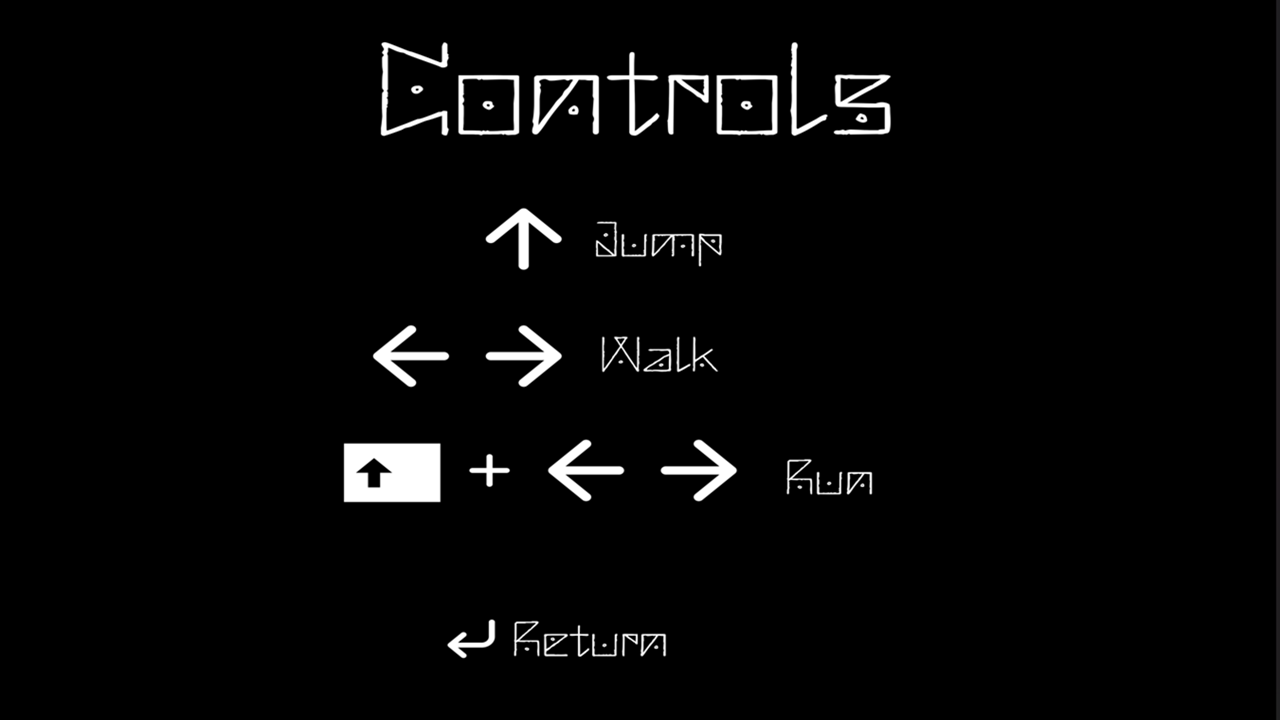
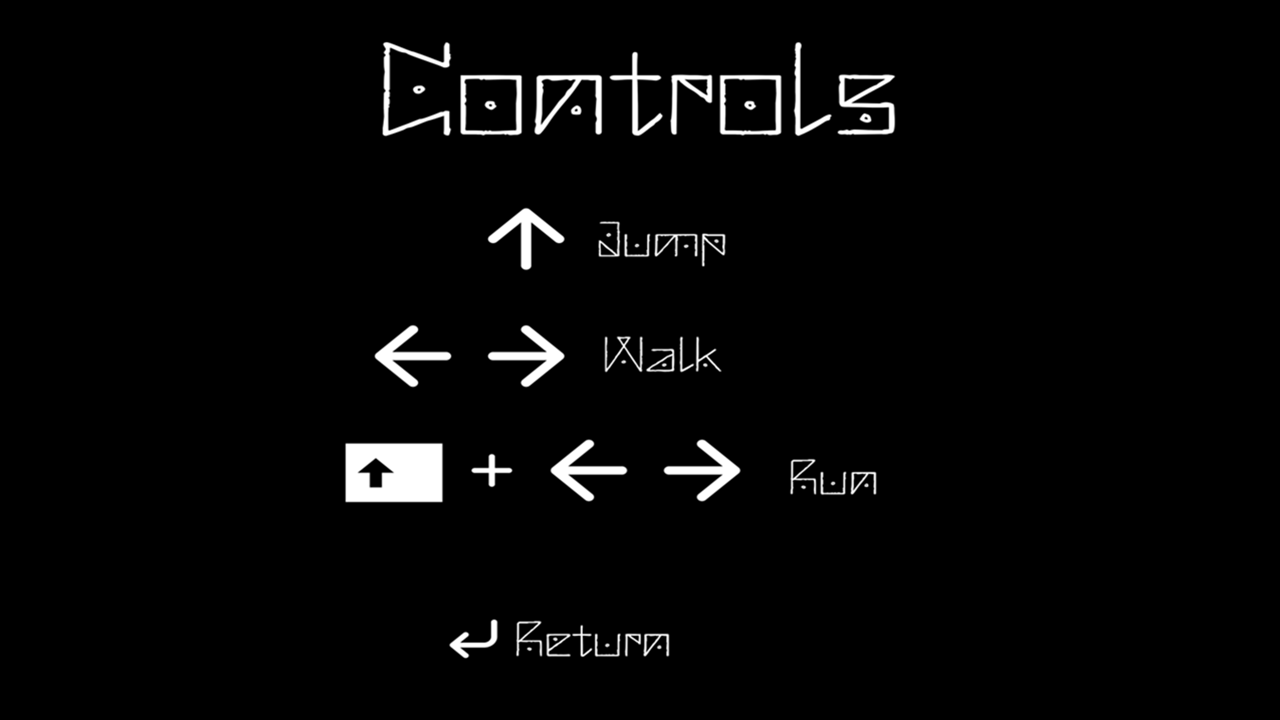
Hotfix: Pantallas para moviles y escritorio

diff --git a/js/pgamebase.js b/js/pgamebase.js
@@ -1067,7 +1067,8 @@ class Controls extends Phaser.Scene {
     create() {
         // En segundo lugar, se ejecuta una vez
         // Toda la lógica del videojuego
-        this.add.image(640, 360, 'controls').setScale(0.14);
+        const { width, height } = this.scale;
+        this.add.image(width/2, height/2, 'controls').setScale(1)
         this.rectangulo = this.add.graphics();
 
         this.rectangulo.lineStyle(4, 0xffffff, 1);  // Grosor de línea 4px, color rojo (0xff0000), opacidad 1 (totalmente opaco)
@@ -1118,7 +1119,7 @@ class EndGame extends Phaser.Scene {
 const config = {
     type: Phaser.AUTO,
     // Array que indica el orden de visualización del vj
-    scene: [MainMenu, Nivel1, Nivel2, Controls, Level, EndGame],
+    scene: [MainMenu,Controls, Nivel1, Nivel2, Level, EndGame],
     scale: {
         mode: Phaser.Scale.FIT,
         width: 1280,
